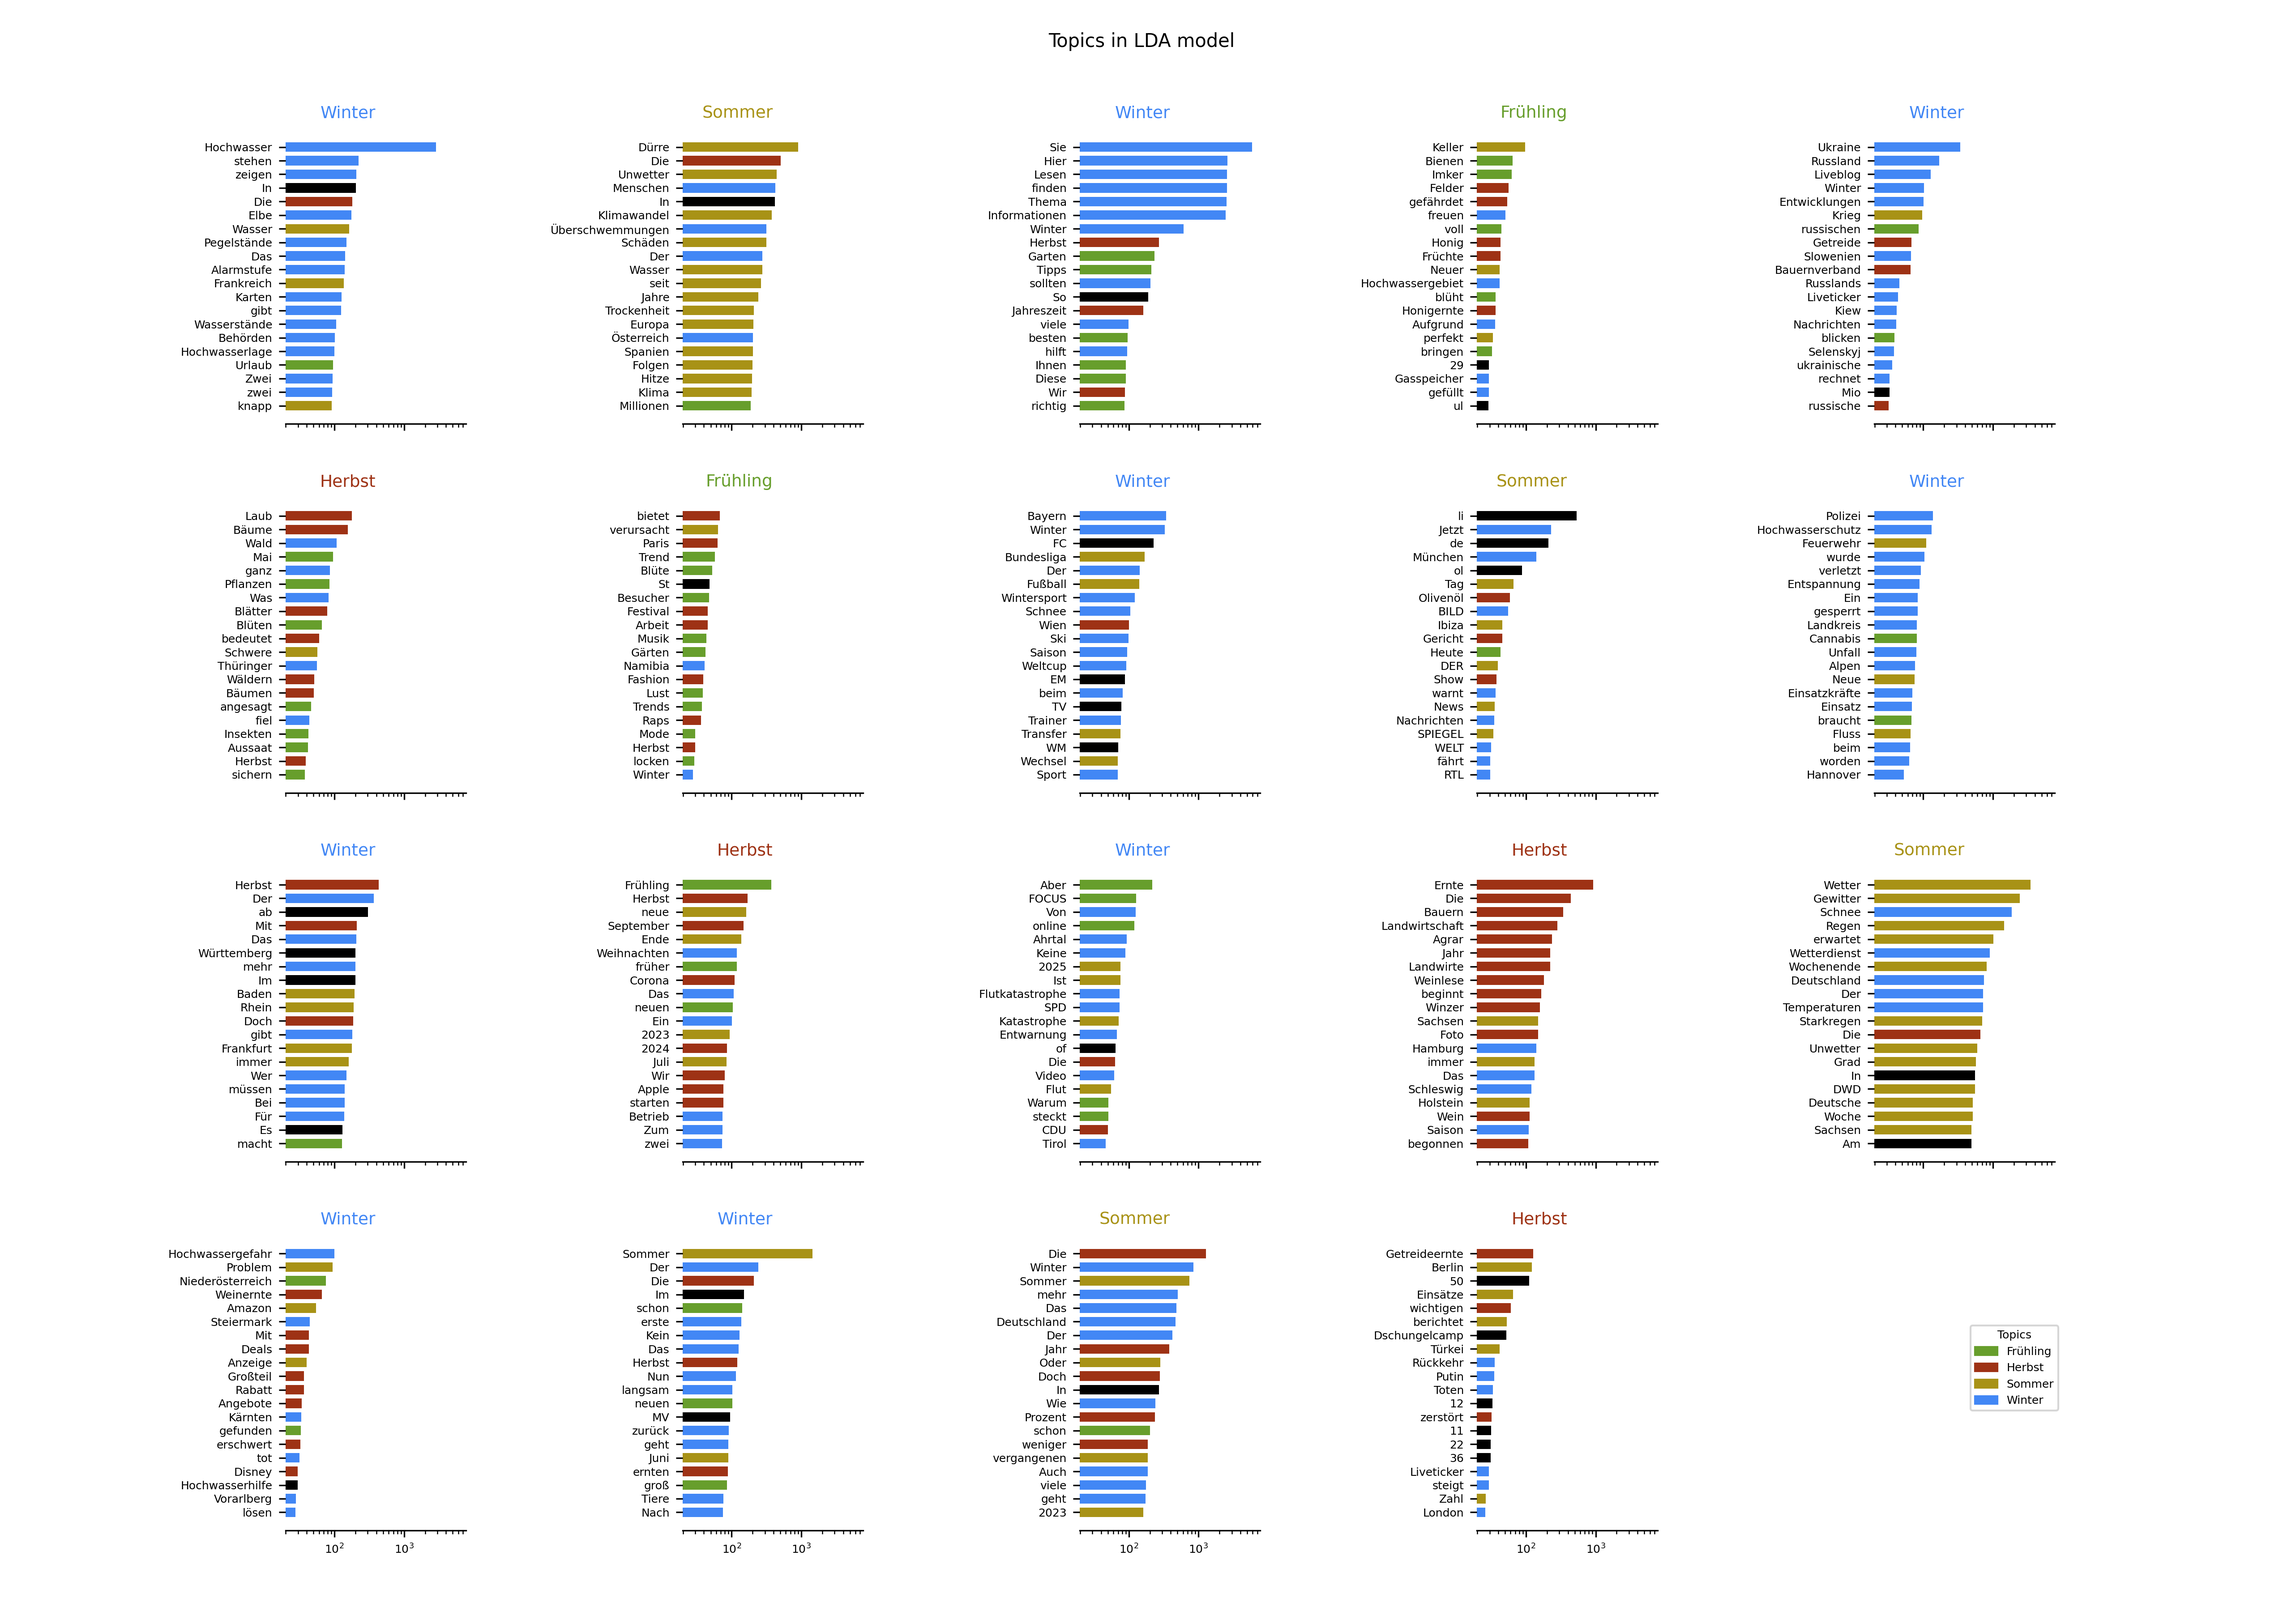
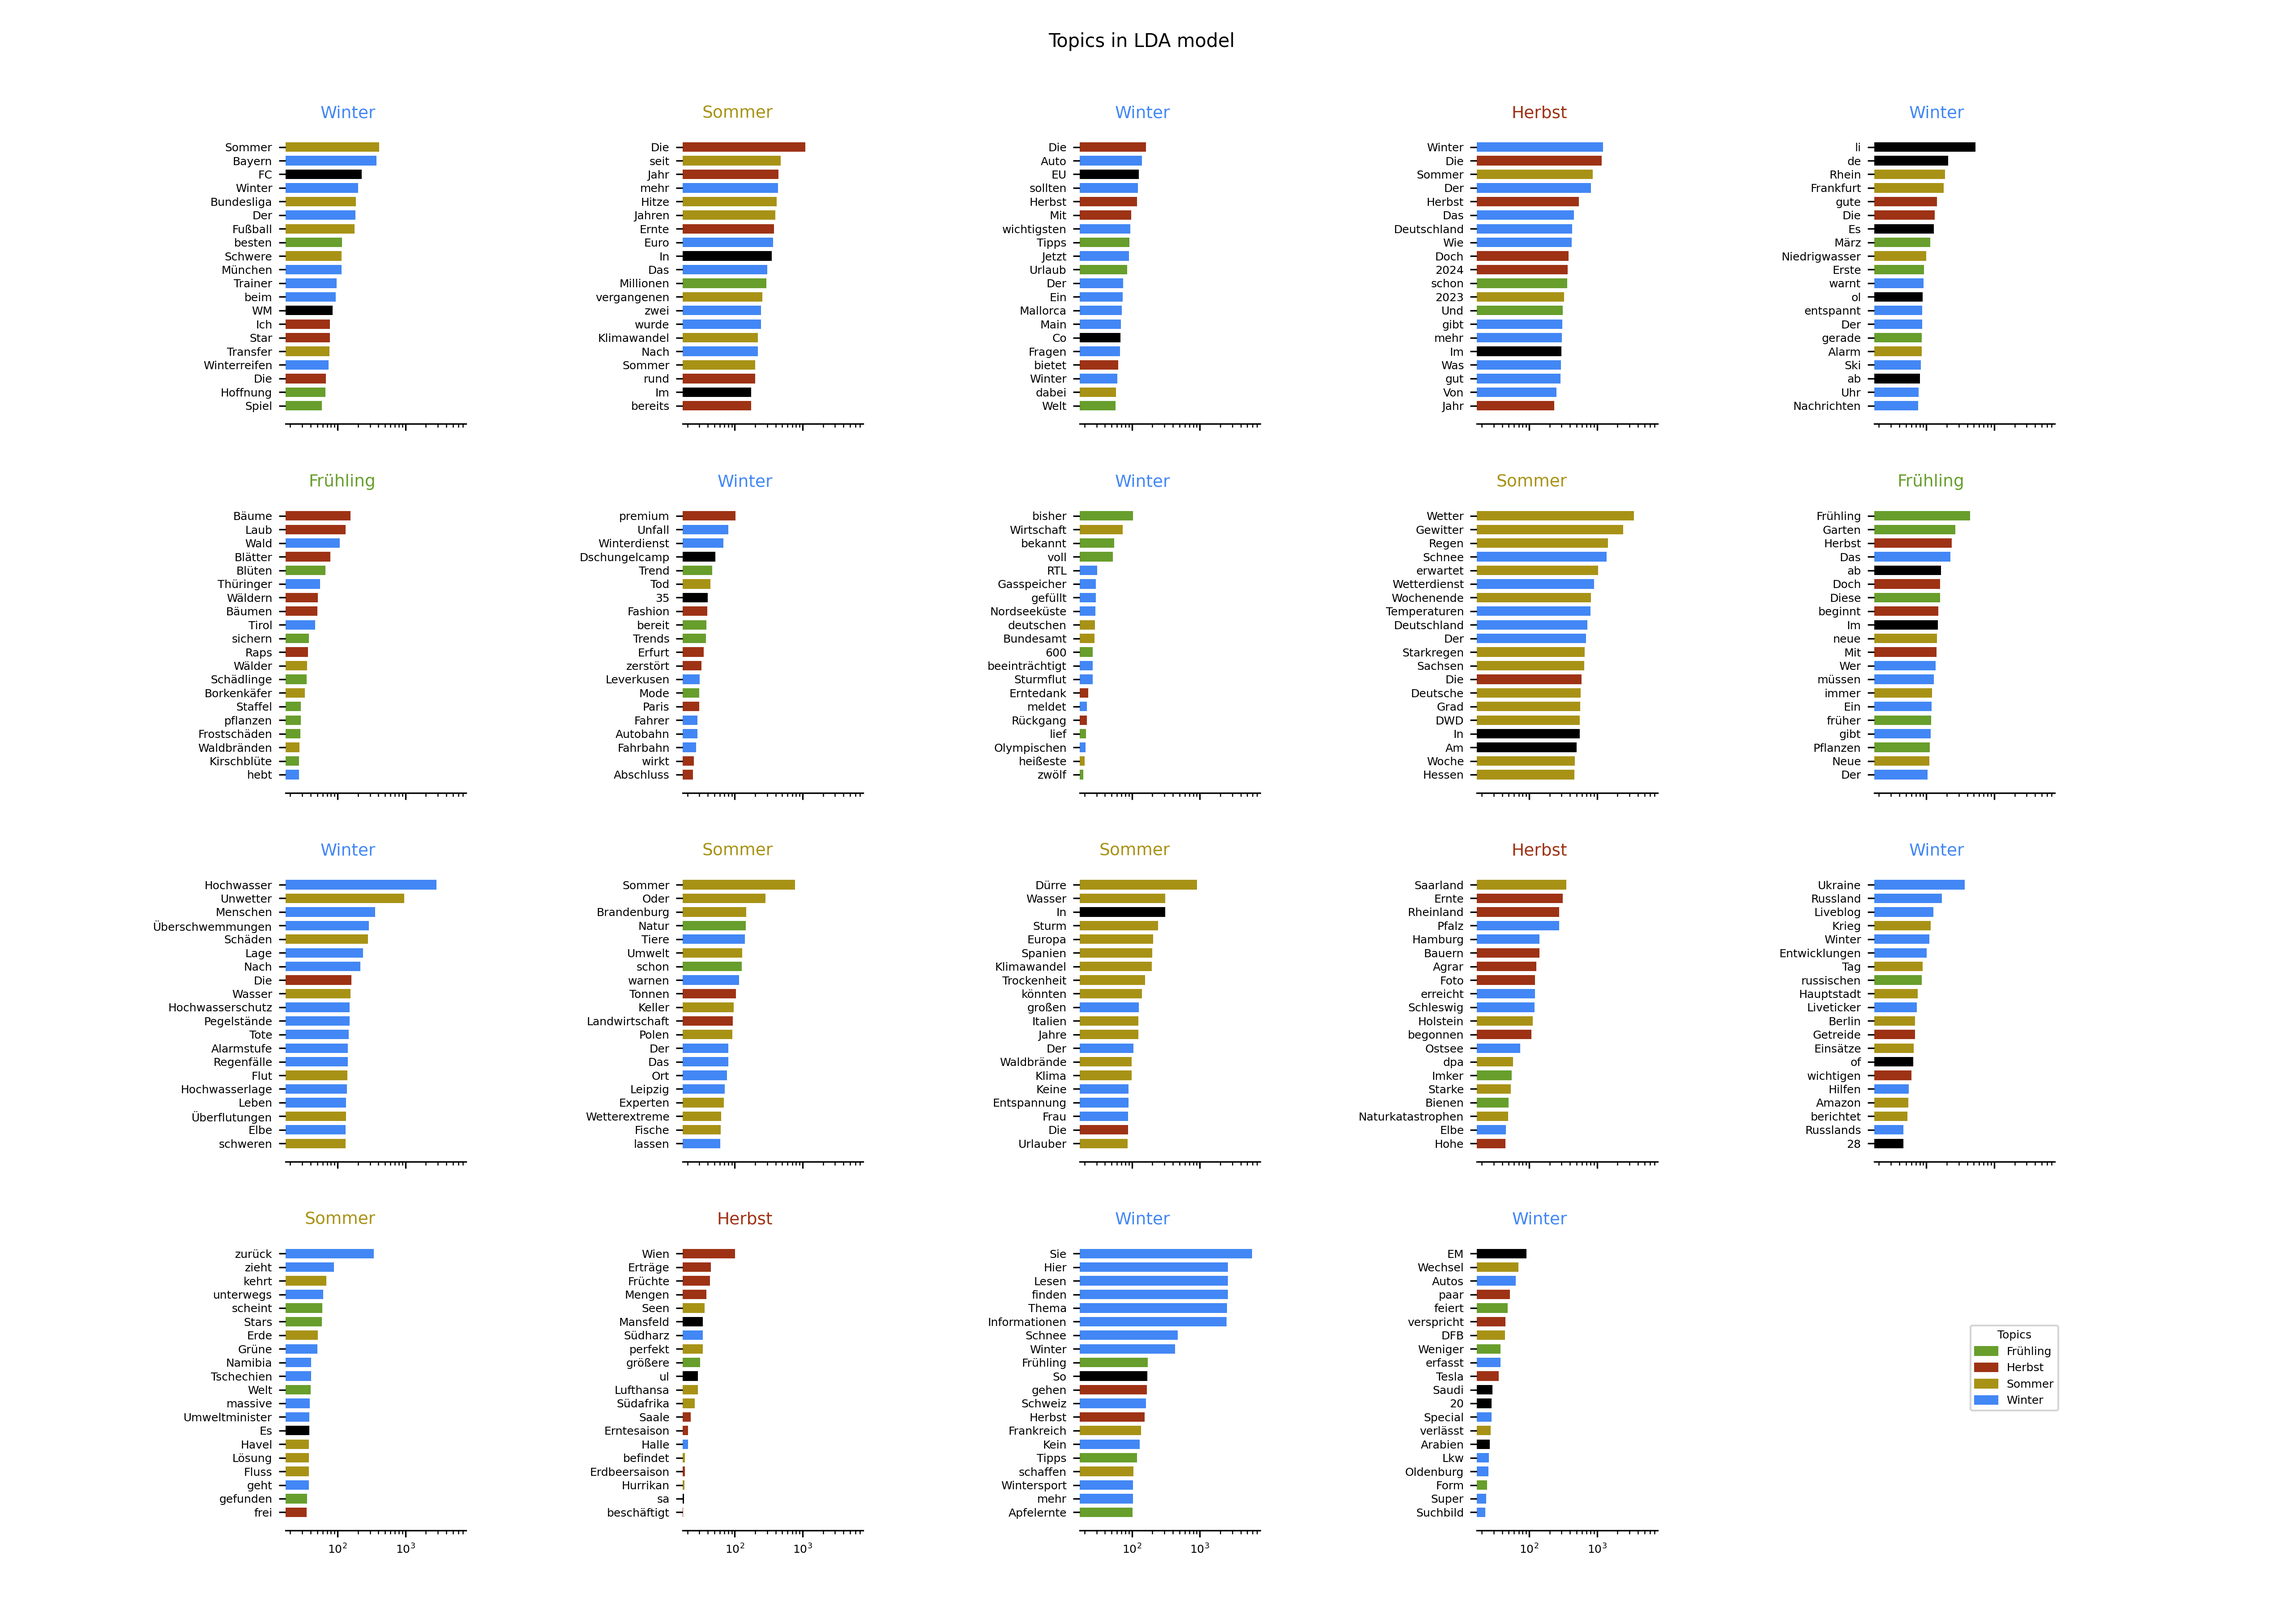
list vs set

diff --git a/diagrams.py b/diagrams.py
@@ -24,7 +24,7 @@ from sklearn.decomposition import NMF, LatentDirichletAllocation
 
 import nltk
 nltk.download("stopwords")
-german_stop_words = set(stopwords.words('german'))
+german_stop_words = list(stopwords.words('german'))
 
 DATA_PATH = Path.cwd()
 if(not os.path.exists(DATA_PATH / 'img')):
